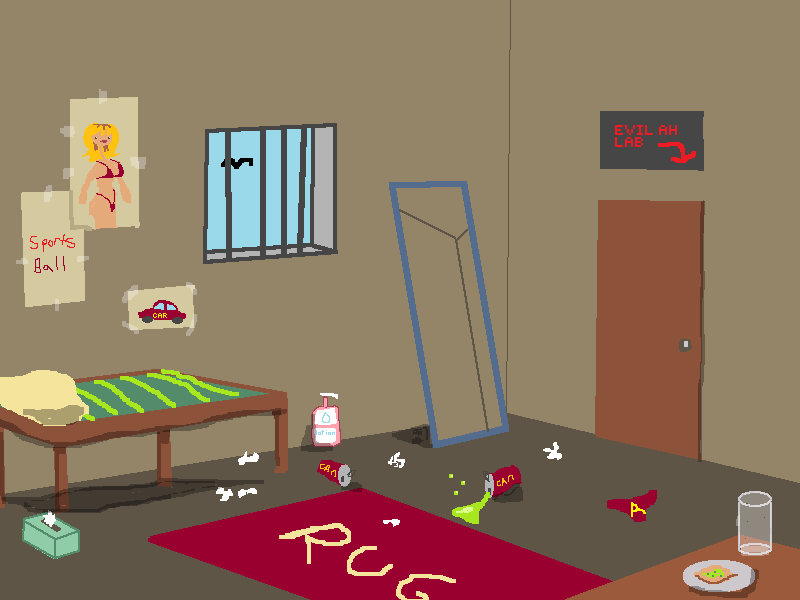
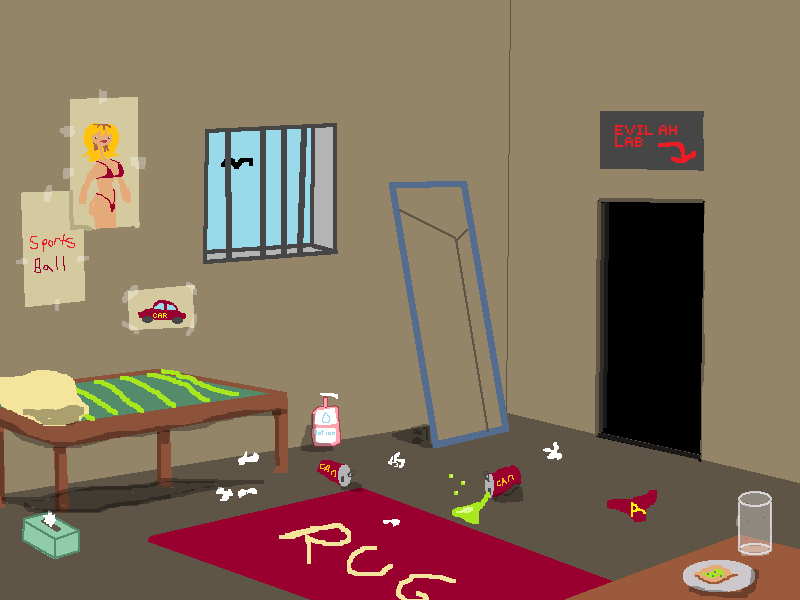
huge updates

Changed region(s): [[0.7188, 0.33, 0.9062, 0.78]]

diff --git a/absnormal/sceneNavigation.js b/absnormal/sceneNavigation.js
@@ -2,7 +2,14 @@
 //Each "scene" (room) has a background and a list of objects.
 //The currentScene variable tells us where Abs Normal is.
 
-console.log['sceneNavigation.js loaded'];
+// import React from 'react';
+// import ReactDOM from 'react-dom';
+// import './styles.css';
+
+// import React, { useState } from 'react';
+// import './style.css'; 
+
+console.log('sceneNavigation.js loaded');
 // const canvas = document.getElementById('gameCanvas');
 // const ctx = canvas.getContext('2d');
 let currentScene = "title";
@@ -19,6 +26,7 @@ const backgrounds = {
     city: new Image(),
     doctor: new Image(),
     pharmacy: new Image(),
+    lab: new Image(),
 };
 
 //load background images for each room.
@@ -27,6 +35,7 @@ backgrounds.bedroom.src = "assets/backgrounds/room_bedroom.png";
 backgrounds.city.src = "assets/backgrounds/room_city.png";
 backgrounds.doctor.src = "assets/backgrounds/room_office.png";
 backgrounds.pharmacy.src = "assets/backgrounds/room_pharmacy.png"
+backgrounds.lab.src = "assets/backgrounds/room_lab.png"
 
 const startBox = { x: 520, y: 460, width: 140, height: 70 }; //placeholder
 
@@ -58,8 +67,8 @@ window.addEventListener("keyup", e => (keys[e.key.toLowerCase()] = false));
 function movePlayer() {
     moving = false;
     if (keys["w"]) { absY -= speed; absDirection = "up"; moving = true; }
-    if (keys["s"]) { absY =+ speed; absDirection = "down"; moving = true; }
-    if (keys["a"]) { absX -+ speed; absDirection = "left"; moving = true; }
+    if (keys["s"]) { absY += speed; absDirection = "down"; moving = true; }
+    if (keys["a"]) { absX -= speed; absDirection = "left"; moving = true; }
     if (keys["d"]) { absX += speed; absDirection = "right"; moving = true; }
     if (moving) frame = frame === 1 ? 2 : 1;
 }
@@ -79,10 +88,10 @@ function checkTransitions() {
 
 
 
-// //Door Objects
-// //Each door connects one scene to another.
+//Door Objects
+//Each door connects one scene to another.
 // scenes.bedroom.objects = [
-//     { x: 950, y: 480, width: 96, height: 160, type: "door", action: "to _city", img: new Image() }
+//     { x: 544, y: 288, width: 96, height: 160, type: "door", action: "to _city", img: new Image(assets/backgrounds/CITY-absnormal.png) }
 // ];
 
 // scenes.city.objects = [
@@ -101,33 +110,95 @@ function checkTransitions() {
 //     scenes[s].objects.forEach(o => o.img.src = `assets/objects/${o.type}.png`);
 // }
 
+// const App = () => {
+//     const [isOpen, setIsOpen] = useState(false);
+
+//     const toggleDoor = () => {
+//         setIsOpen(!isOpen);
+//     };
+
+//     return (
+//         <div>
+//             <div className="door-container">
+//                 <div className={`door ${isOpen ? 'open' : ''}`}></div>
+//             </div>
+//             <button onClick={toggleDoor}>
+//                 {isOpen ? 'Close Door' : 'Open Door'}
+//             </button>
+//         </div>
+//     );
+// };
+// export default App;
+
+const doorFrames = [];
+for (let i = 1; i <=6; i++) {
+    const img = new Image();
+    img.src = 'assets/backgrounds/door_frames/door_frame_${i}.png';
+    doorFrames.push(img);
+}
+
+// const door = document.getElementById("door");
+const door = {
+    x:544,
+    y:200,
+    width: 196,
+    height:260,
+    currentFrame: 0,
+    isAnimating: false
+}
+
+function isNearDoor() {
+    return currentScene === "bedroom" &&
+           absX + 96 > door.x && absX < door.x + door.width &&
+           absY + 96 > door.y && absY < door.y + door.height;
+}
 
 
-
-
-
-
-//Door Transition Logi: Checks if Abs Normal is touching a door and switdches scenes.
-function handleDoors() {
-    const playerBox = { x:absX, y: absY, width: frameWidth, height: frameHeight };
-    for (let obj of scenes[currentScene].objects) {
-        if (isColliding(playerBox, obj) && obj.action) {
-            if (obj.action === "to_city") currentScene = "city";
-            if (obj.action === "to_bedroom") currentScene = "bedroom";
-            if (obj.action === "to_pharmacy") currentScene = "pharmacy";
-            if (obj.action === "to_office") currentScene = "office";
-            //reset player pos so they appear at the entrance
-            absX = 150;
-            absY = 420;
-            break;
+function animateDoor() {
+    door.isAnimating = true;
+    door.currentFrame = 0;
+    
+    const interval = setInterval(() => {
+        door.currentFrame++;
+        if (door.currentFrame >= doorFrames.length) {
+            clearInterval(interval);
+            door.isAnimating = false;
+            currentScene = "lab";
+            absX = canvas.width / 2 - 96;
+            absY = canvas.height / 2 - 96;
         }
+    }, 100);
+}
+
+function checkDoor() {
+    if (isNearDoor() && !door.isAnimating) {
+        animateDoor();
     }
 }
-//scene drawing
-function drawScene() {
-    const scene = scenes [currentScene];
-    ctx.drawImage(scene.background, 0, 0, canvas.width, canvas.height);
-    scene.objects.forEach(obj => {
-        ctx.drawImage(obj.img, obj.x, obj.y, obj.width, obj.height);
-    });
-}
+
+// const button = document.getElementById("interactButton");
+
+// let isOpen = false;
+// let currentFrame = 0;
+// let animationInterval;
+
+// button.addEventListener("click", function () { // Fixed: Added closing quote and brackets
+//     if (!isOpen) {
+//         currentFrame = 0;
+//         button.disabled = true; // Disable button during animation
+
+//         animationInterval = setInterval(() => { // Fixed: Syntax for setInterval
+//             if (currentFrame < doorFrames.length) {
+//                 door.src = doorFrames[currentFrame];
+//                 currentFrame++;
+//             } else {
+//                 clearInterval(animationInterval);
+//                 button.textContent = 'Close Door'; // Change button text
+//                 isOpen = true;
+//                 button.disabled = false; // Re-enable button
+//             }
+//         }, 100); // Change frame every 100ms
+//     } else {
+//         // Optional logic for closing the door (if desired)
+//     }
+// });

diff --git a/absnormal/index.html b/absnormal/index.html
@@ -136,6 +136,50 @@
             //     }
             // });
 
+
+
+            // import React, { useState } from 'react';
+            // import './styles.css'; // Make sure to import your CSS file properly
+
+            // const AnimatedDoor = () => {
+            //     const [isOpen, setIsOpen] = useState(false);
+
+            //     const toggleDoor = () => {
+            //         setIsOpen(!isOpen);
+            //     };
+
+            //     return (
+            //         <div className="scene" id="scene">
+            //             <img 
+            //                 id="door" 
+            //                 src={isOpen ? "assets/backgrounds/door_frames/door_frame_open.png" : "assets/backgrounds/door_frames/door_frame_1.png"} 
+            //                 alt="door animation" 
+            //             />
+            //             <button id="interactButton" onClick={toggleDoor}>
+            //                 {isOpen ? "Close Door" : "Open Door"}
+            //             </button>
+            //         </div>
+            //     );
+            // };
+            // /* styles.css */
+            //     scene {
+            //         position: relative;
+            //         width: 200px; /* Full width of button */
+            //         height: 300px; /* Full height of door */
+            //     }
+
+            //     door {
+            //         width: 100%;  /* Adjust based on your door image size */
+            //         height: auto;  /* Maintain aspect ratio */
+            //     }
+
+            //     button {
+            //         margin-top: 20px;
+            //     }
+
+
+            // export default AnimatedDoor;
+
         </script>
     
        
@@ -145,3 +189,4 @@
 
 
 <!-- <canvas id="gameCanvas" width="1280" height="720"></canvas> -->
+        

diff --git a/absnormal/CharacterAnimation.js b/absnormal/CharacterAnimation.js
@@ -69,6 +69,9 @@ function drawScene() {
 		ctx.fillText("START", startBox.x + 80, startBox.y + 65);
 		return;
 	}
+	if (currentScene === "bedroom") {
+        ctx.drawImage(doorFrames[door.currentFrame], door.x, door.y, door.width, door.height);
+    }
 	drawPlayer();
 }
 
@@ -89,6 +92,7 @@ function update(){
 	if (currentScene !== "title"){
 		movePlayer();
 		checkTransitions();
+		checkDoor();
 	}
 	drawScene();
 	requestAnimationFrame(update);

diff --git a/Garrett/README.md b/Garrett/README.md
@@ -1,3 +1,4 @@
 I am Gilgamesh, consumer of the comsos and father of the Ciqaudas.  
 garrett is smelly
 mrrrp mrrow meow moew mewo prrp
+dookie fart
